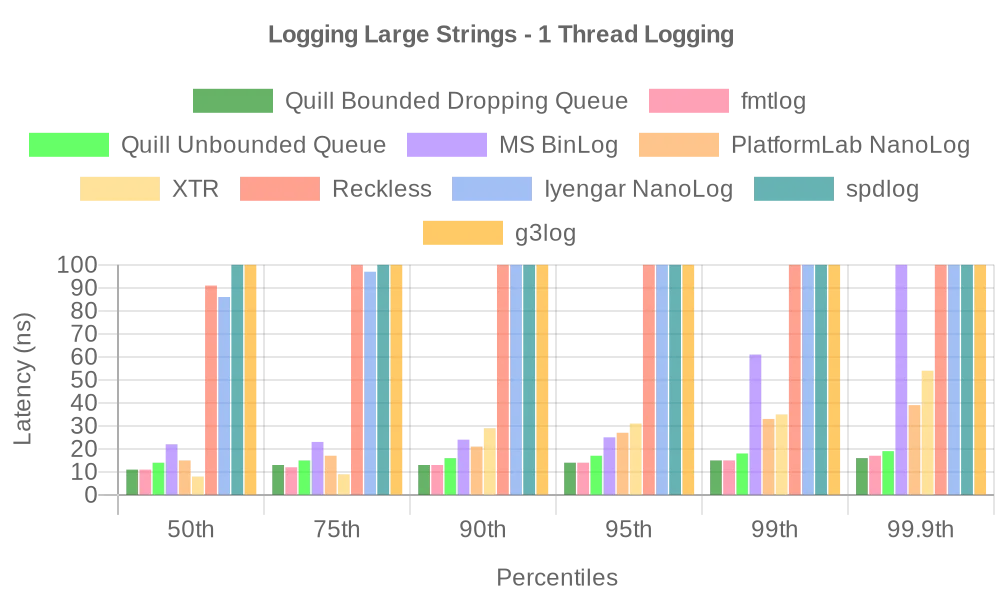
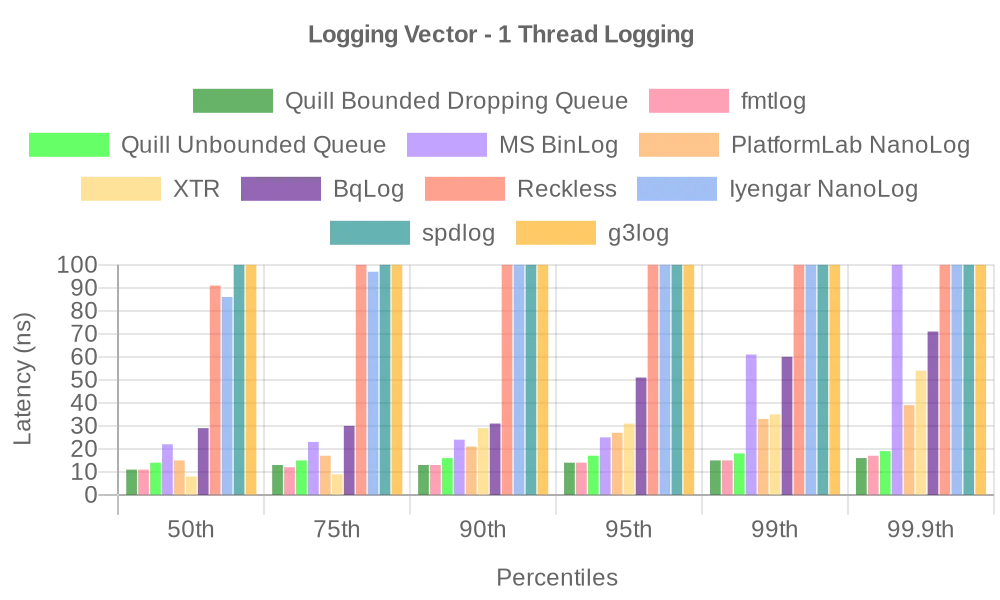
update README.md

diff --git a/scripts/generate_latency_chart_url.py b/scripts/generate_latency_chart_url.py
@@ -14,7 +14,8 @@ def generate_chart_url(markdown_table, title):
         'Reckless': 'rgba(255,99,71,0.6)',                       # Tomato Red
         'Iyengar NanoLog': 'rgba(100,149,237,0.6)',               # Cornflower Blue
         'spdlog': 'rgba(0,128,128,0.6)',                         # Teal
-        'g3log': 'rgba(255,165,0,0.6)'                           # Orange Red
+        'g3log': 'rgba(255,165,0,0.6)',  # Orange Red
+        'BqLog': 'rgba(75,0,130,0.6)'  # Indigo
     }
 
     # Parse the markdown table
@@ -89,22 +90,32 @@ markdown_tables = [
     """
 | Library                                                        | 50th | 75th | 90th | 95th | 99th | 99.9th |
 |----------------------------------------------------------------|:----:|:----:|:----:|:----:|:----:|:------:|
-| [Quill Bounded Dropping Queue](http://github.com/odygrd/quill) |  48  |  50  |  53  |  55  |  58  |   62   |
-| [Quill Unbounded Queue](http://github.com/odygrd/quill)        |  54  |  56  |  57  |  58  |  61  |   66   |
-| [MS BinLog](http://github.com/Morgan-Stanley/binlog)           |  68  |  69  |  72  |  74  |  79  |  281   |
-| [XTR](https://github.com/choll/xtr)                            | 284  | 294  | 340  | 346  | 356  |  575   |
-| [fmtlog](http://github.com/MengRao/fmtlog)                     | 711  | 730  | 754  | 770  | 804  |  834   |
-| [spdlog](http://github.com/gabime/spdlog)                      | 6191 | 6261 | 6330 | 6386 | 6633 |  7320  |
+| [Quill Bounded Dropping Queue](http://github.com/odygrd/quill) |  11  |  13  |  13  |  14  |  15  |   16   |
+| [fmtlog](http://github.com/MengRao/fmtlog)                     |  11  |  12  |  13  |  14  |  15  |   17   |
+| [Quill Unbounded Queue](http://github.com/odygrd/quill)        |  14  |  15  |  16  |  17  |  18  |   19   |
+| [MS BinLog](http://github.com/Morgan-Stanley/binlog)           |  22  |  23  |  24  |  25  |  61  |  100   |
+| [PlatformLab NanoLog](http://github.com/PlatformLab/NanoLog)   |  15  |  17  |  21  |  27  |  33  |   39   |
+| [XTR](https://github.com/choll/xtr)                            |  8   |  9   |  29  |  31  |  35  |   54   |
+| [BqLog](https://github.com/Tencent/BqLog)                      |  29  |  30  |  31  |  51  |  60  |   71   |
+| [Reckless](http://github.com/mattiasflodin/reckless)           |  91  | 107  | 115  | 118  | 124  |  135   |
+| [Iyengar NanoLog](http://github.com/Iyengar111/NanoLog)        |  86  |  97  | 119  | 128  | 159  |  268   |
+| [spdlog](http://github.com/gabime/spdlog)                      | 120  | 124  | 128  | 132  | 141  |  151   |
+| [g3log](http://github.com/KjellKod/g3log)                      | 881  | 956  | 1018 | 1089 | 1264 |  1494  |
     """,
     """
 | Library                                                        | 50th | 75th | 90th | 95th | 99th | 99.9th |
 |----------------------------------------------------------------|:----:|:----:|:----:|:----:|:----:|:------:|
-| [Quill Bounded Dropping Queue](http://github.com/odygrd/quill) |  50  |  52  |  54  |  56  |  60  |   82   |
-| [MS BinLog](http://github.com/Morgan-Stanley/binlog)           |  70  |  72  |  75  |  79  |  88  |  286   |
-| [Quill Unbounded Queue](http://github.com/odygrd/quill)        |  97  | 107  | 116  | 122  | 135  |  148   |
-| [XTR](https://github.com/choll/xtr)                            | 512  | 711  | 761  | 791  | 865  |  945   |
-| [fmtlog](http://github.com/MengRao/fmtlog)                     | 780  | 804  | 823  | 835  | 860  |  896   |
-| [spdlog](http://github.com/gabime/spdlog)                      | 6469 | 6549 | 6641 | 6735 | 7631 |  9430  |
+| [XTR](https://github.com/choll/xtr)                            |  9   |  11  |  13  |  14  |  32  |   40   |
+| [fmtlog](http://github.com/MengRao/fmtlog)                     |  11  |  12  |  13  |  14  |  16  |   19   |
+| [Quill Bounded Dropping Queue](http://github.com/odygrd/quill) |  13  |  14  |  15  |  16  |  17  |   19   |
+| [Quill Unbounded Queue](http://github.com/odygrd/quill)        |  15  |  16  |  17  |  18  |  19  |   21   |
+| [MS BinLog](http://github.com/Morgan-Stanley/binlog)           |  23  |  25  |  27  |  28  |  65  |  105   |
+| [PlatformLab NanoLog](http://github.com/PlatformLab/NanoLog)   |  16  |  20  |  32  |  38  |  44  |   51   |
+| [BqLog](https://github.com/Tencent/BqLog)                      |  32  |  33  |  35  |  56  |  64  |   76   |
+| [Reckless](http://github.com/mattiasflodin/reckless)           |  79  |  94  | 104  | 107  | 114  |  132   |
+| [Iyengar NanoLog](http://github.com/Iyengar111/NanoLog)        |  85  |  93  | 125  | 133  | 168  |  237   |
+| [spdlog](http://github.com/gabime/spdlog)                      | 178  | 218  | 261  | 281  | 381  |  651   |
+| [g3log](http://github.com/KjellKod/g3log)                      | 992  | 1055 | 1121 | 1178 | 1360 |  1600  |
     """
 ]
 

diff --git a/scripts/generate_throughput_chart_url.py b/scripts/generate_throughput_chart_url.py
@@ -10,7 +10,8 @@ def generate_chart_url(markdown_table, title):
         'fmtlog': 'rgba(255,99,132,0.6)',  # Light Red
         'spdlog': 'rgba(0,128,128,0.6)',  # Teal
         'Reckless': 'rgba(255,99,71,0.6)',  # Tomato Red
-        'XTR': 'rgba(255,206,86,0.6)'  # Yellow
+        'XTR': 'rgba(255,206,86,0.6)',  # Yellow
+        'BqLog': 'rgba(75,0,130,0.6)'  # Indigo
     }
 
     # Parse the markdown table
@@ -81,6 +82,7 @@ markdown_table = """
 | Library                                                           | million msg/second | elapsed time |
 |-------------------------------------------------------------------|:------------------:|:------------:|
 | [Quill](http://github.com/odygrd/quill)                           |        5.70        |    701 ms    |
+| [BqLog](https://github.com/Tencent/BqLog)                         |        4.93        |    811 ms    |
 | [spdlog](http://github.com/gabime/spdlog)                         |        3.54        |   1128 ms    |
 | [fmtlog](http://github.com/MengRao/fmtlog)                        |        2.90        |   1378 ms    |
 | [Reckless](http://github.com/mattiasflodin/reckless)              |        2.72        |   1471 ms    |

diff --git a/README.md b/README.md
@@ -185,6 +185,7 @@ The tables are sorted by the 95th percentile
 | [MS BinLog](http://github.com/Morgan-Stanley/binlog)           |  21  |  21  |  22  |  22  |  56  |   93   |
 | [XTR](https://github.com/choll/xtr)                            |  7   |  7   |  29  |  30  |  33  |   53   |
 | [Reckless](http://github.com/mattiasflodin/reckless)           |  26  |  28  |  31  |  32  |  35  |   49   |
+| [BqLog](https://github.com/Tencent/BqLog)                      |  29  |  29  |  30  |  49  |  56  |   71   |
 | [Iyengar NanoLog](http://github.com/Iyengar111/NanoLog)        |  83  |  96  | 117  | 125  | 152  |  197   |
 | [spdlog](http://github.com/gabime/spdlog)                      | 143  | 147  | 152  | 158  | 165  |  177   |
 | [g3log](http://github.com/KjellKod/g3log)                      | 1161 | 1259 | 1329 | 1419 | 1602 |  1827  |
@@ -202,6 +203,7 @@ The tables are sorted by the 95th percentile
 | [PlatformLab NanoLog](http://github.com/PlatformLab/NanoLog)   |  15  |  17  |  20  |  23  |  27  |   32   |
 | [MS BinLog](http://github.com/Morgan-Stanley/binlog)           |  21  |  22  |  22  |  23  |  62  |  100   |
 | [Reckless](http://github.com/mattiasflodin/reckless)           |  19  |  23  |  26  |  28  |  34  |   55   |
+| [BqLog](https://github.com/Tencent/BqLog)                      |  31  |  33  |  34  |  55  |  61  |   73   |
 | [Iyengar NanoLog](http://github.com/Iyengar111/NanoLog)        |  58  |  90  | 123  | 131  | 168  |  242   |
 | [spdlog](http://github.com/gabime/spdlog)                      | 210  | 243  | 288  | 313  | 382  |  694   |
 | [g3log](http://github.com/KjellKod/g3log)                      | 1271 | 1337 | 1396 | 1437 | 1614 |  1899  |
@@ -224,6 +226,7 @@ Logging `std::string` over 35 characters to prevent the short string optimizatio
 | [MS BinLog](http://github.com/Morgan-Stanley/binlog)           |  22  |  23  |  24  |  25  |  61  |  100   |
 | [PlatformLab NanoLog](http://github.com/PlatformLab/NanoLog)   |  15  |  17  |  21  |  27  |  33  |   39   |
 | [XTR](https://github.com/choll/xtr)                            |  8   |  9   |  29  |  31  |  35  |   54   |
+| [BqLog](https://github.com/Tencent/BqLog)                      |  29  |  30  |  31  |  51  |  60  |   71   |
 | [Reckless](http://github.com/mattiasflodin/reckless)           |  91  | 107  | 115  | 118  | 124  |  135   |
 | [Iyengar NanoLog](http://github.com/Iyengar111/NanoLog)        |  86  |  97  | 119  | 128  | 159  |  268   |
 | [spdlog](http://github.com/gabime/spdlog)                      | 120  | 124  | 128  | 132  | 141  |  151   |
@@ -241,6 +244,7 @@ Logging `std::string` over 35 characters to prevent the short string optimizatio
 | [Quill Unbounded Queue](http://github.com/odygrd/quill)        |  15  |  16  |  17  |  18  |  19  |   21   |
 | [MS BinLog](http://github.com/Morgan-Stanley/binlog)           |  23  |  25  |  27  |  28  |  65  |  105   |
 | [PlatformLab NanoLog](http://github.com/PlatformLab/NanoLog)   |  16  |  20  |  32  |  38  |  44  |   51   |
+| [BqLog](https://github.com/Tencent/BqLog)                      |  32  |  33  |  35  |  56  |  64  |   76   |
 | [Reckless](http://github.com/mattiasflodin/reckless)           |  79  |  94  | 104  | 107  | 114  |  132   |
 | [Iyengar NanoLog](http://github.com/Iyengar111/NanoLog)        |  85  |  93  | 125  | 133  | 168  |  237   |
 | [spdlog](http://github.com/gabime/spdlog)                      | 178  | 218  | 261  | 281  | 381  |  651   |
@@ -251,6 +255,8 @@ Logging `std::string` over 35 characters to prevent the short string optimizatio
 #### Logging Complex Types
 
 Logging `std::vector<std::string>` containing 16 large strings, each ranging from 50 to 60 characters.
+
+Note: some of the previous loggers do not support passing a `std::vector` as an argument.
 
 `LOG_INFO(logger, "Logging int: {}, int: {}, vector: {}", i, j, v)`.
 
@@ -304,7 +310,11 @@ flush-and-wait mechanism.
 Note that `MS BinLog` writes log data to a binary file, which requires offline formatting with an additional
 program—this makes it an unfair comparison, but it is included for reference.
 
-Similarly, `Platformlab Nanolog` also outputs binary logs and is expected to deliver high throughput. However, for
+Similarly, `BqLog (binary log)` uses the compressed binary log appender, and its log files are not human-readable unless
+processed offline. However, it is included for reference. The other version of `BqLog` is using a text appender and
+produces human-readable log files.
+
+In the same way, `Platformlab Nanolog` also outputs binary logs and is expected to deliver high throughput. However, for
 reasons unexplained, the benchmark runs significantly slower (10x longer) than the other libraries, so it is excluded
 from the table.
 
@@ -313,7 +323,9 @@ Logging 4 million times the message `"Iteration: {} int: {} double: {}"`
 | Library                                                           | million msg/second | elapsed time |
 |-------------------------------------------------------------------|:------------------:|:------------:|
 | [MS BinLog (binary log)](http://github.com/Morgan-Stanley/binlog) |       63.80        |    62 ms     |
+| [BqLog (binary log)](https://github.com/Tencent/BqLog)            |       15.92        |    251 ms    |
 | [Quill](http://github.com/odygrd/quill)                           |        5.70        |    701 ms    |
+| [BqLog](https://github.com/Tencent/BqLog)                         |        4.93        |    811 ms    |
 | [spdlog](http://github.com/gabime/spdlog)                         |        3.54        |   1128 ms    |
 | [fmtlog](http://github.com/MengRao/fmtlog)                        |        2.90        |   1378 ms    |
 | [Reckless](http://github.com/mattiasflodin/reckless)              |        2.72        |   1471 ms    |
